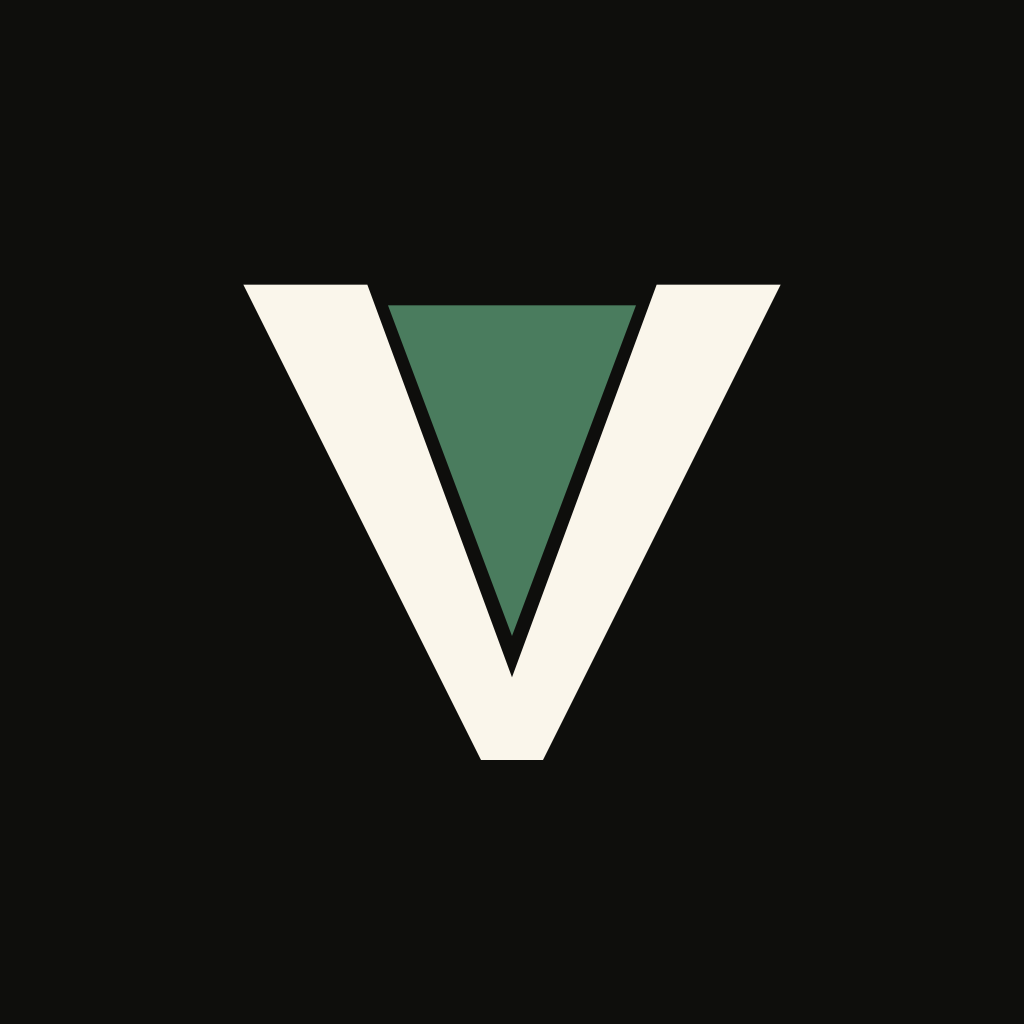
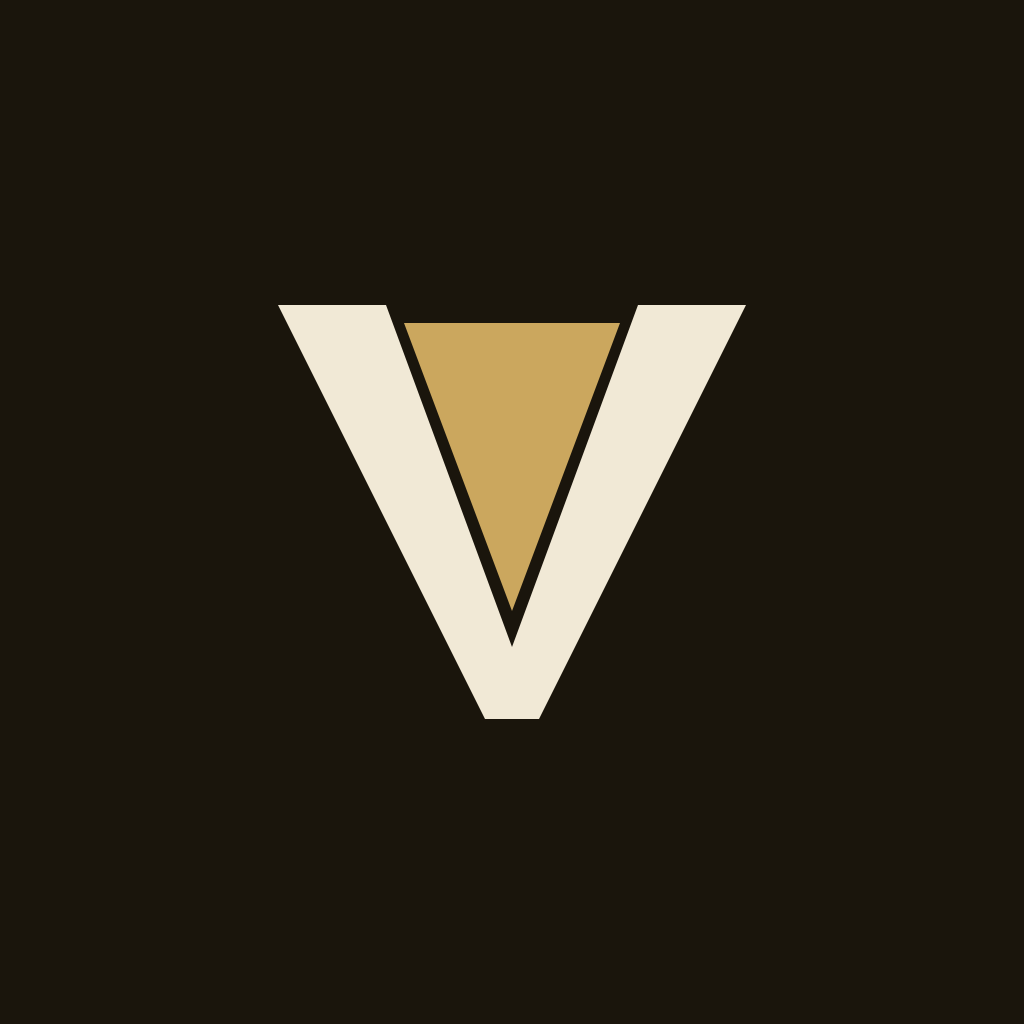
iOS shell + brand marks: align the native chrome to warmed Nocturne
The app's UI moved to the warmed Nocturne tokens, but the native shell
around it still carried older brands:

- App icon + splash (assets/ sources AND the iOS asset catalog,
  including the dark splash variants) regenerated from the VolnarLogo
  geometry in the current brand — cream V, brass triangle, warm-ink
  ground — replacing the pre-Nocturne sage-green mark. Rendered with
  sharp at the exact prior catalog dimensions.
- Capacitor WebView background fallback: Twilight cream #F3ECE0 → the
  warmed paper #F6F5F1, so the pre-paint flash matches the page.
- PropertyMap canvas styles: light background was Twilight cream and
  dark was the old blue-black; both re-tuned to the warmed neutrals
  (paper/charcoal ground, warmer buildings and roads).
- Web favicons brought along: public/favicon.svg + volnar-mark*.svg
  triangles sage → brass; apple-touch-icon / icon-192 / icon-512
  regenerated; the dynamic icon routes' gold/ground nudged onto the
  exact plate tokens (#1A150C / #F1E9D6 / #CBA75E).
- RELEASING.md artwork note updated.

Native static export verified (npm run build:native) and the web build
passes. Reaching devices: the in-app UI ships via npm run ota:release
(needs the production Supabase env); the icon/splash/webview-fallback
ride the next App Store binary (mobile:sync + Xcode archive).

Claude-Session: https://claude.ai/code/session_01XxR7AqnpQk2QERr37DMGRA

Changed region(s): [[0.2188, 0.25, 0.7812, 0.75]]

diff --git a/src/app/apple-icon.tsx b/src/app/apple-icon.tsx
@@ -10,7 +10,7 @@ export default function AppleIcon() {
         style={{
           width: "100%",
           height: "100%",
-          background: "#1A1814",
+          background: "#1A150C",
           display: "flex",
           alignItems: "center",
           justifyContent: "center",
@@ -18,8 +18,8 @@ export default function AppleIcon() {
         }}
       >
         <svg viewBox="0 0 60 60" width="120" height="120" fill="none">
-          <polygon points="4,8 16,8 30,46 44,8 56,8 33,54 27,54" fill="#F5F1EA" />
-          <polygon points="18,10 42,10 30,42" fill="#CBAA6C" />
+          <polygon points="4,8 16,8 30,46 44,8 56,8 33,54 27,54" fill="#F1E9D6" />
+          <polygon points="18,10 42,10 30,42" fill="#CBA75E" />
         </svg>
       </div>
     ),

diff --git a/src/app/icon.tsx b/src/app/icon.tsx
@@ -10,7 +10,7 @@ export default function Icon() {
         style={{
           width: "100%",
           height: "100%",
-          background: "#1A1814",
+          background: "#1A150C",
           display: "flex",
           alignItems: "center",
           justifyContent: "center",
@@ -18,8 +18,8 @@ export default function Icon() {
         }}
       >
         <svg viewBox="0 0 60 60" width="20" height="20" fill="none">
-          <polygon points="4,8 16,8 30,46 44,8 56,8 33,54 27,54" fill="#F5F1EA" />
-          <polygon points="18,10 42,10 30,42" fill="#CBAA6C" />
+          <polygon points="4,8 16,8 30,46 44,8 56,8 33,54 27,54" fill="#F1E9D6" />
+          <polygon points="18,10 42,10 30,42" fill="#CBA75E" />
         </svg>
       </div>
     ),

diff --git a/capacitor.config.ts b/capacitor.config.ts
@@ -26,7 +26,7 @@ const config: CapacitorConfig = {
     // Native WebView background fallback (light mode). Prevents a white flash
     // behind the web content before/around paint. Dark-mode parity comes with
     // @capacitor/status-bar in a later phase.
-    backgroundColor: "#F3ECE0",
+    backgroundColor: "#F6F5F1",
     // NOTE: limitsNavigationsToAppBoundDomains was removed with the move to
     // bundled assets — the webview now serves capacitor://localhost, which an
     // app-bound-domains allowlist would lock out. OAuth/magic-link still run

diff --git a/docs/RELEASING.md b/docs/RELEASING.md
@@ -40,10 +40,12 @@ npm run mobile:open    # Xcode → run/archive
 ### Icons & splash
 
 Source assets live in `assets/` (`icon.png` 1024×1024, `splash.png` 2732×2732);
-regenerate the iOS asset catalog with `npm run mobile:assets`. ⚠ The current
-artwork was generated programmatically from the Volnar "V" mark — functional
-and on-brand, but not designer-produced. Replace with final artwork before the
-App Store submission, then rerun `npm run mobile:assets`.
+regenerate the iOS asset catalog with `npm run mobile:assets`. The artwork is
+generated programmatically from the Volnar "V" mark in the current brand
+(cream V + brass triangle on warm ink — updated 2026-07-02 to match the warmed
+Nocturne tokens; sharp-rendered, see the session notes). Functional and
+on-brand, but not designer-produced — replace with final artwork before a
+flagship App Store push, then rerun `npm run mobile:assets`.
 
 
 Rules learned the hard way:
